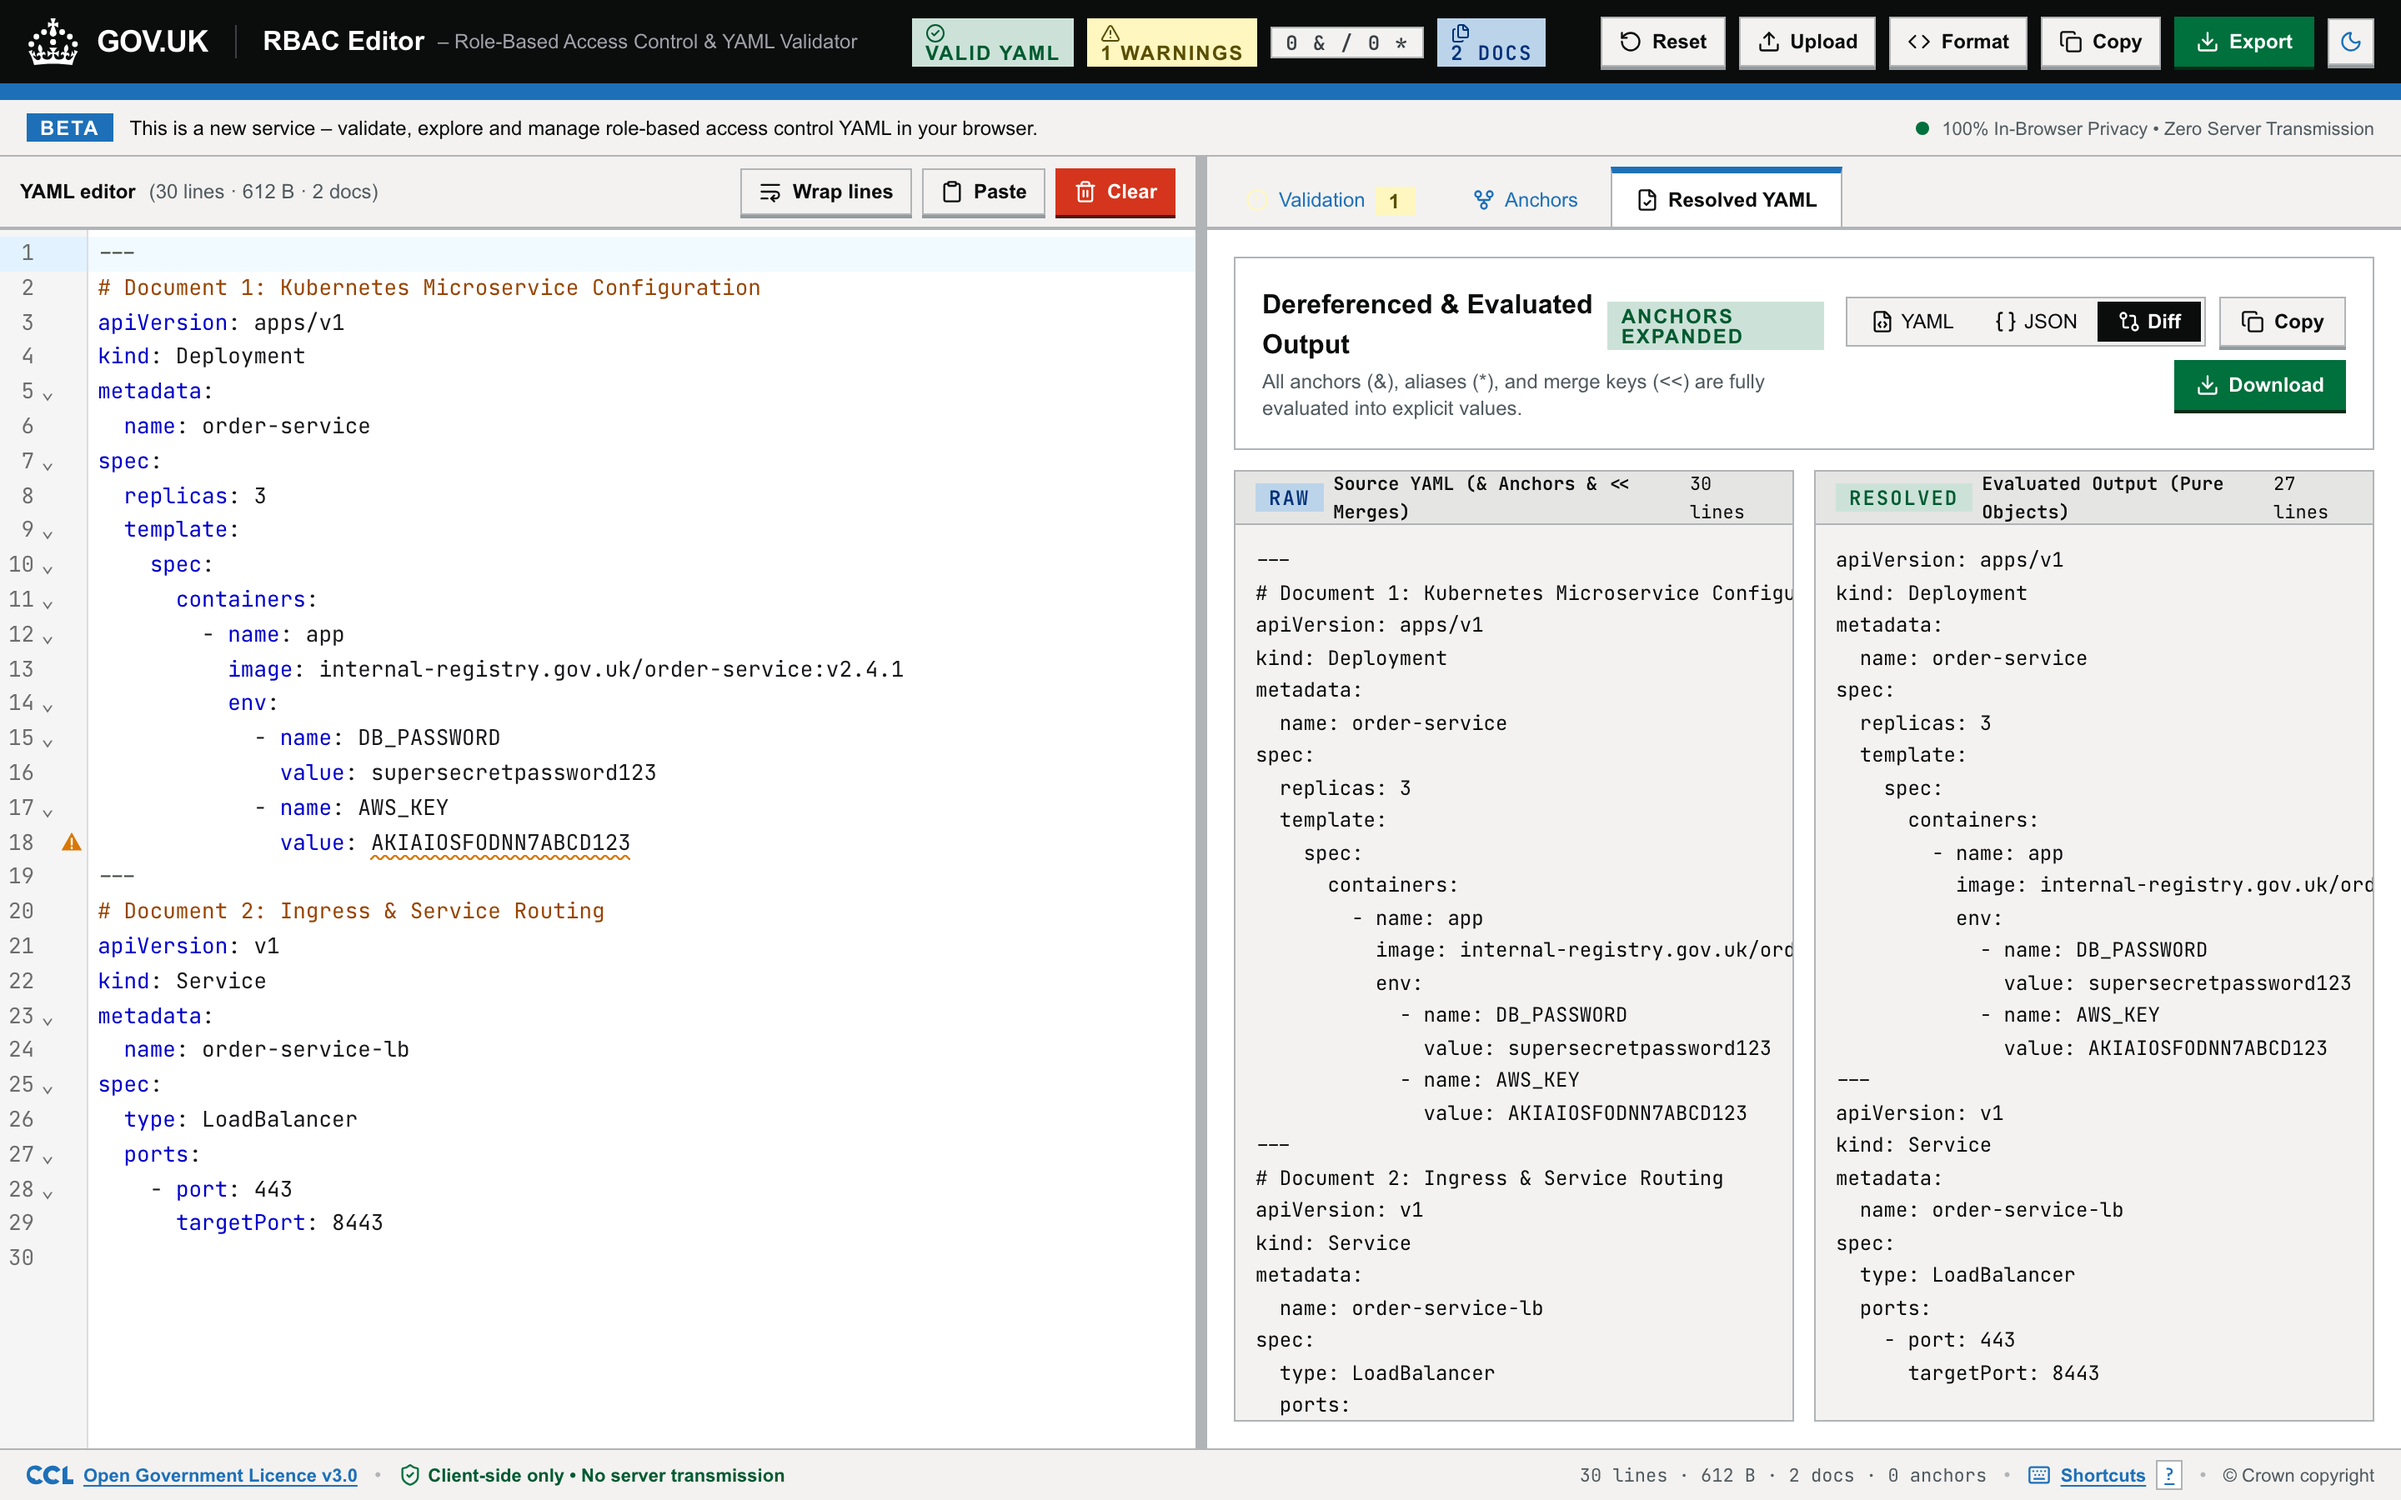
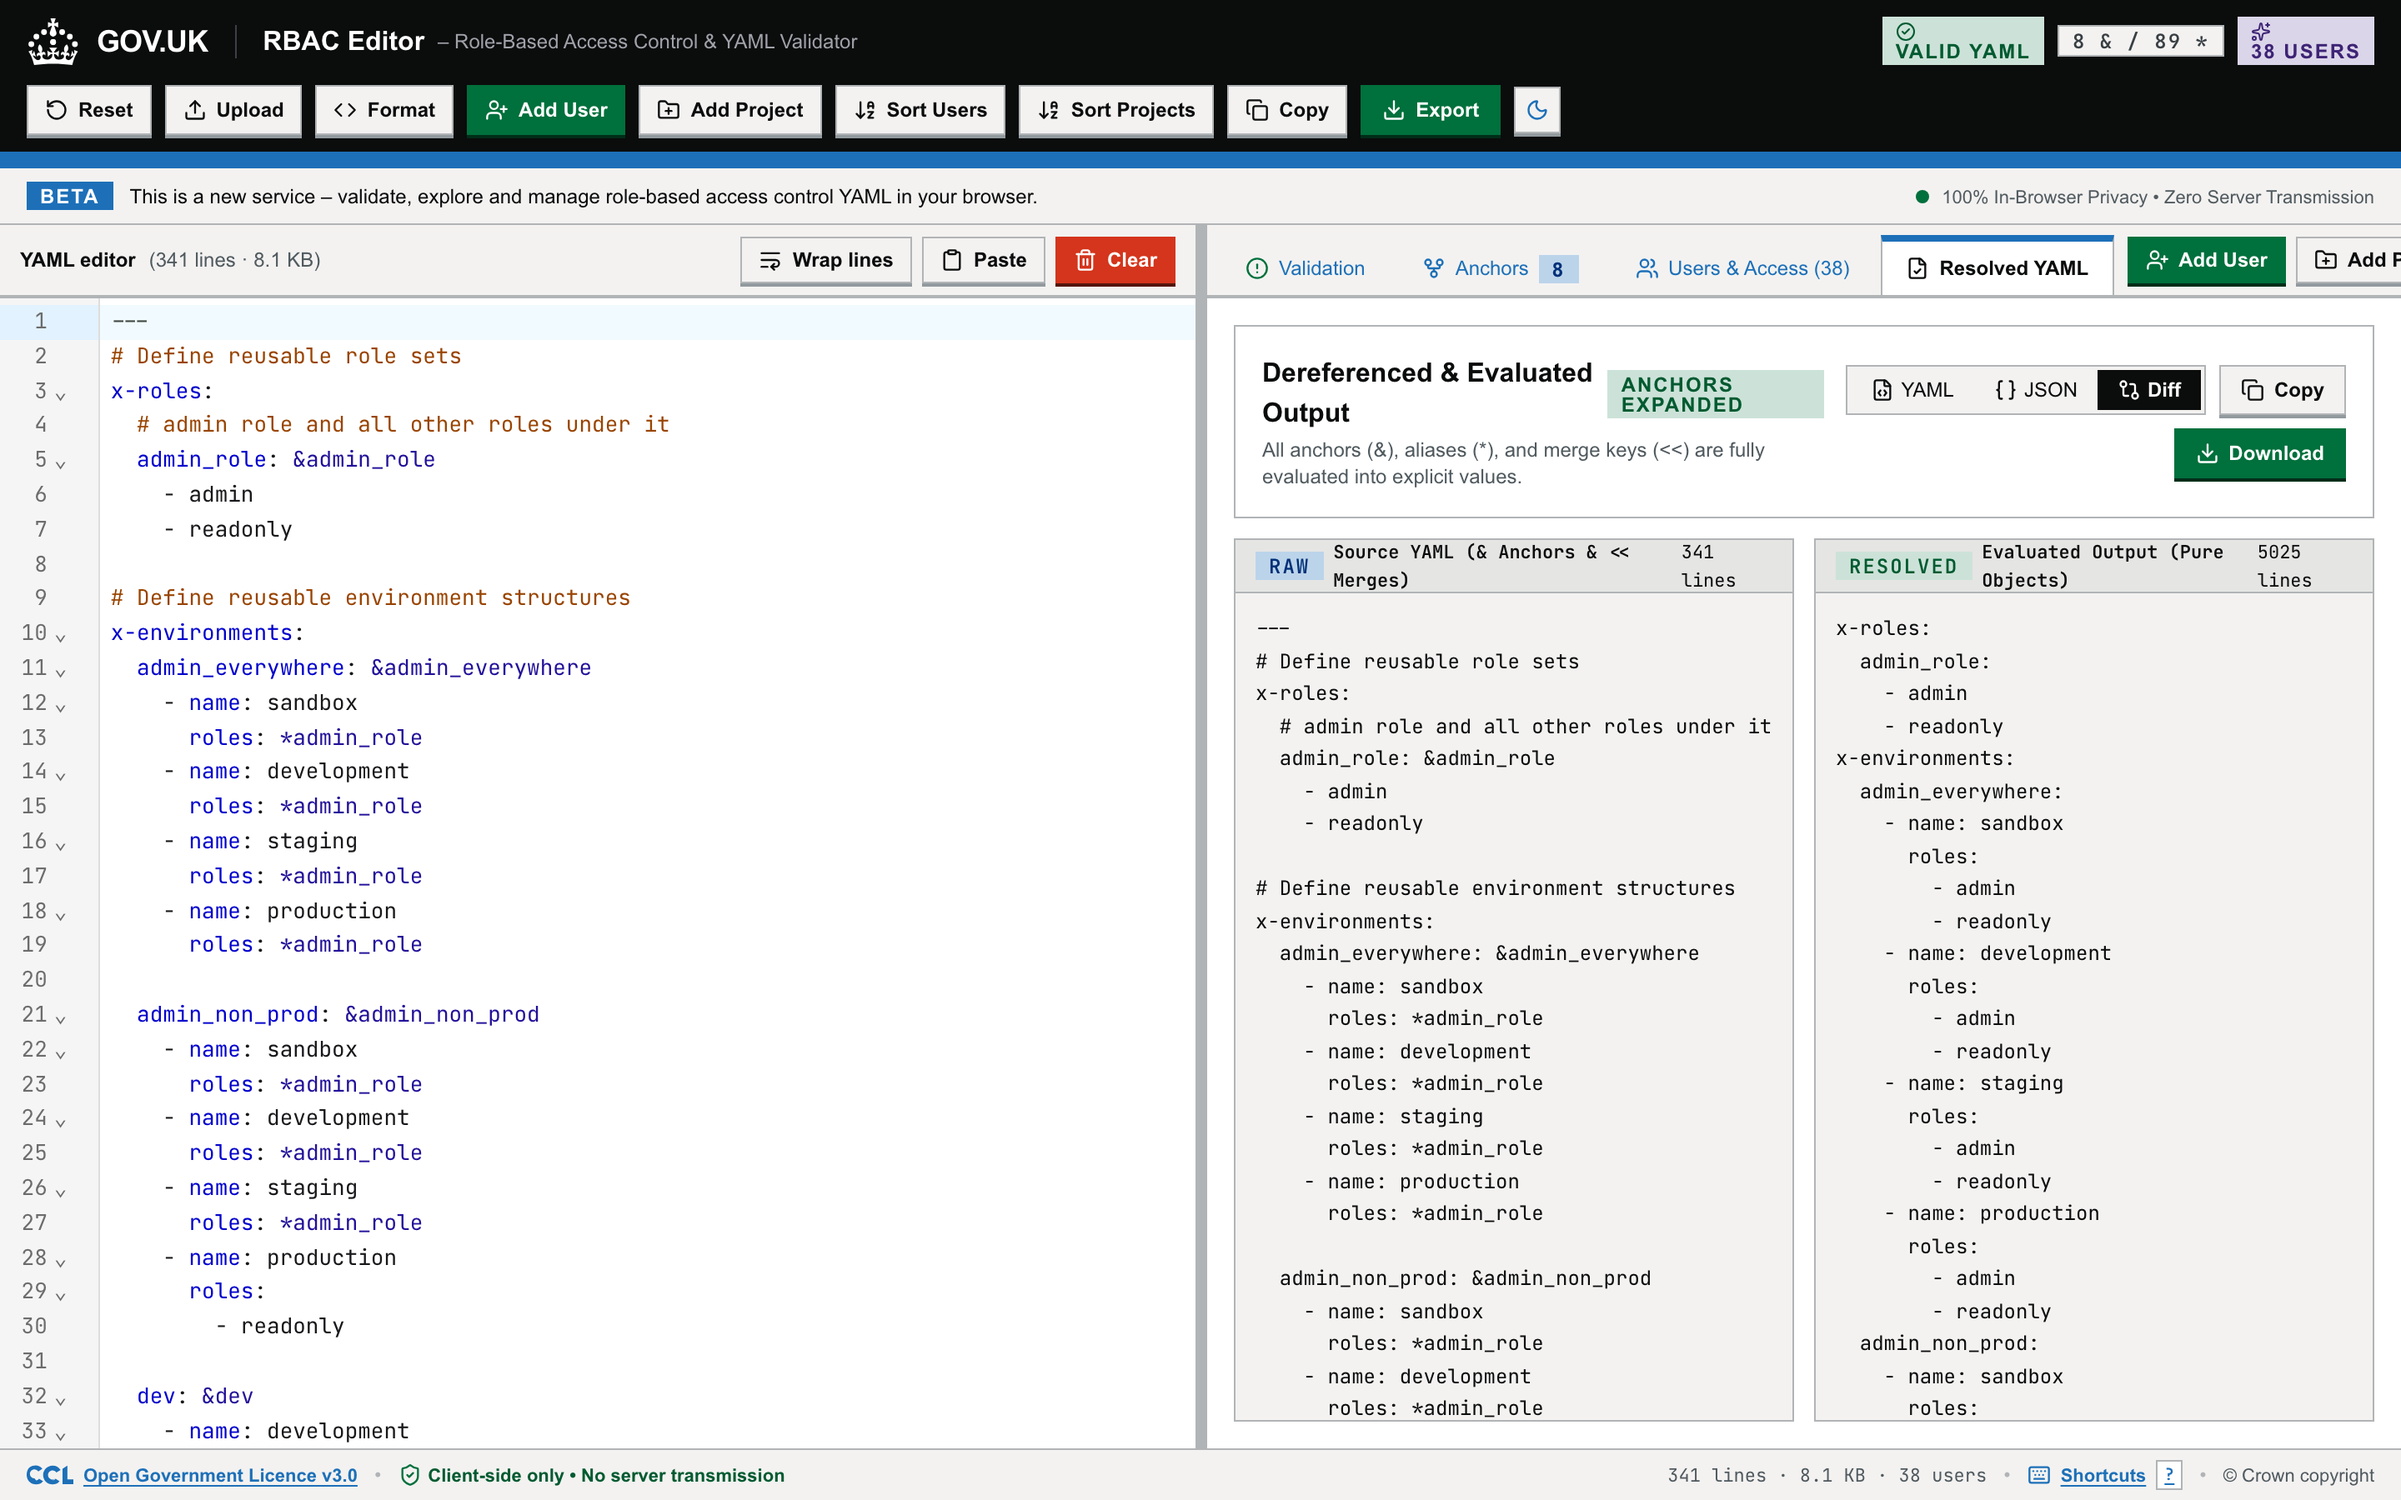
docs: add live demo link and feature screenshots to README

diff --git a/README.md b/README.md
@@ -1,5 +1,8 @@
 # RBAC Editor • In-Browser YAML Validator & Access Manager
 
+> 🚀 **Live Interactive Demo**: **[http://stephenford.org/yaml-web-validator/](http://stephenford.org/yaml-web-validator/)**  
+> 🔒 **100% Client-Side Privacy**: Zero server transmission. All parsing, anchor evaluation, secret scanning, and validation happen entirely inside your browser.
+
 [![CI](https://github.com/smford/rbac-editor/actions/workflows/ci.yml/badge.svg)](https://github.com/smford/rbac-editor/actions/workflows/ci.yml)
 [![Deploy to GitHub Pages](https://github.com/smford/rbac-editor/actions/workflows/deploy.yml/badge.svg)](https://github.com/smford/rbac-editor/actions/workflows/deploy.yml)
 
@@ -22,6 +25,18 @@
 ### 4. Dark Mode & RBAC Directory Management
 ![Dark Mode & RBAC Directory](docs/screenshots/04-dark-mode-rbac-directory.png)
 *Accessible high-contrast GDS Dark Mode theme with real-time RBAC User Directory, Super Admin and Power Admin classification metrics, and project hierarchy breakdown.*
+
+### 5. "Add User" Assistant & Permission Preset Generator
+![Add User Assistant](docs/screenshots/05-add-user-wizard.png)
+*Interactive user onboarding assistant with live input validation, preset anchor reusability patterns (`*all_projects_admin`, `*all_projects_non_prod_admin`), permission cloning, and live YAML preview.*
+
+### 6. "Add Project & Environment" Wizard
+![Add Project & Environment Wizard](docs/screenshots/06-add-project-wizard.png)
+*Structured wizard to register new microservices or environments, bind reusable role templates, auto-register in global presets, and assign user access with batch selection.*
+
+### 7. Keyboard Shortcuts & Quick Navigation Modal
+![Keyboard Shortcuts Modal](docs/screenshots/07-keyboard-shortcuts-modal.png)
+*Power-user keyboard shortcut modal (accessible via `Ctrl+/` or footer shortcut button) for instant tab switching, auto-formatting, sorting, and file operations.*
 
 ---
 
